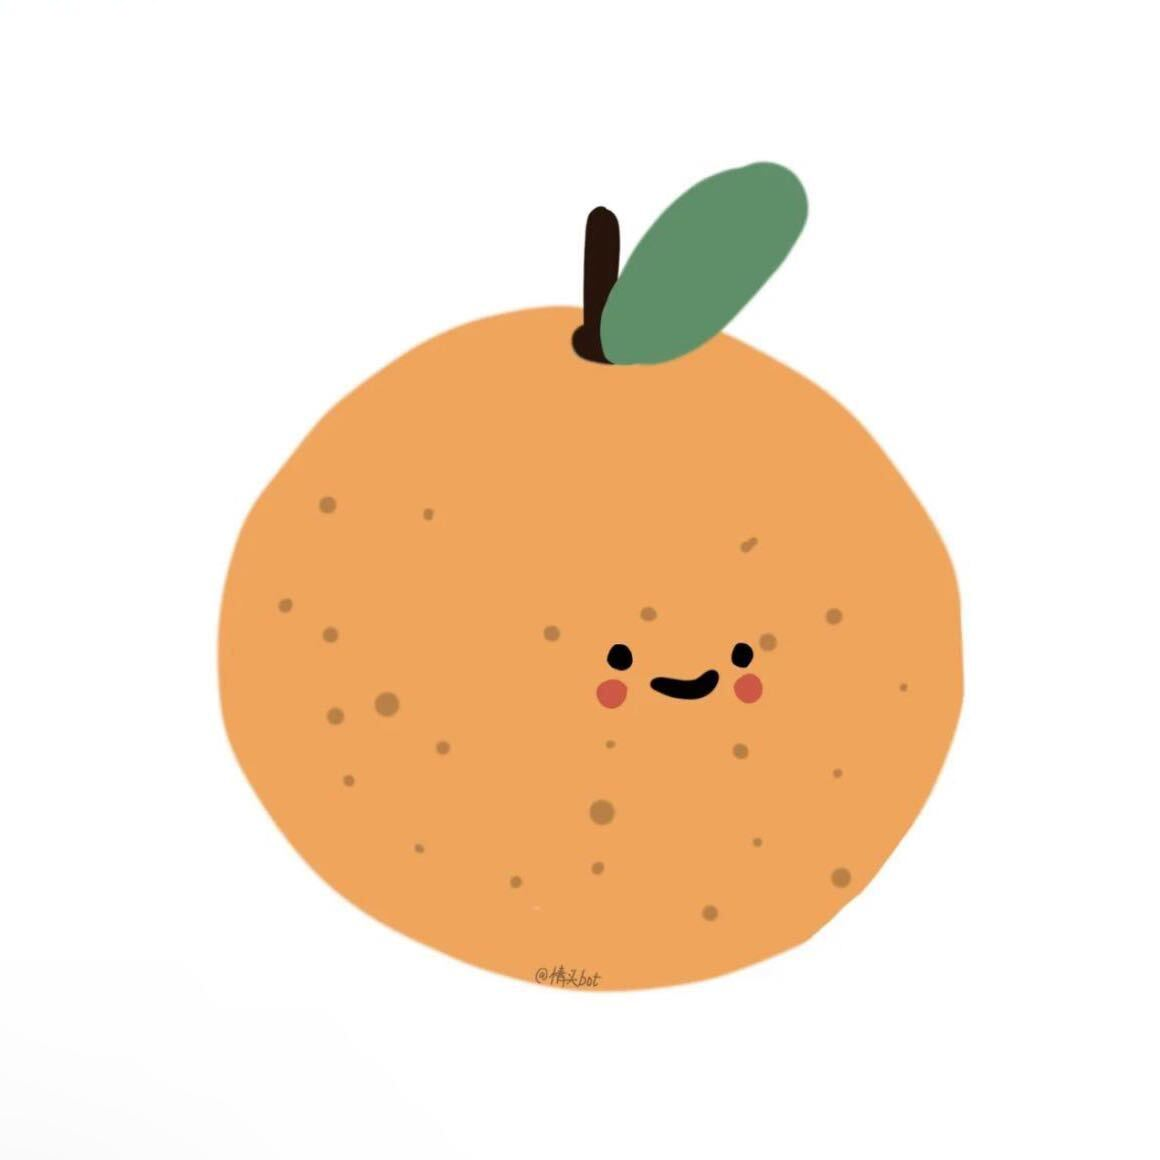
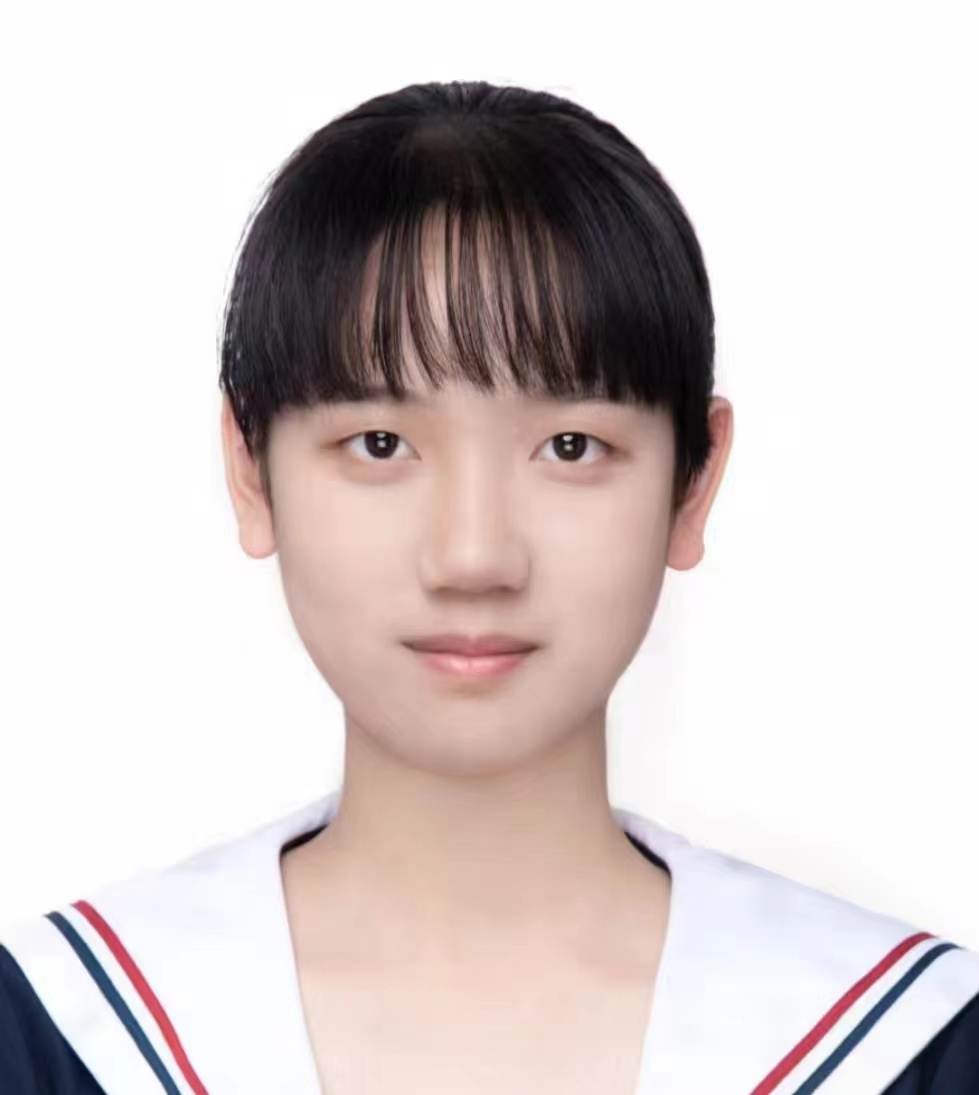
update member

diff --git a/new_new_index.html b/new_new_index.html
@@ -481,7 +481,7 @@
           <div class="hero-stat-label">Publications</div>
         </div>
         <div>
-          <div class="hero-stat-num">14</div>
+          <div class="hero-stat-num">17</div>
           <div class="hero-stat-label">Current Members</div>
         </div>
       </div>
@@ -541,6 +541,7 @@
 
     <!-- ══════════ News ══════════ -->
     <section id="news" class="section-card">
+
 
 
 
@@ -721,6 +722,7 @@
 
 
 
+
 <!-- wby: 注意，切勿删除，程序代码识别publications开始部分 -->
 
     <div class="section-header">
@@ -741,22 +743,25 @@
       <select id="authorFilterDropdown" class="filter-select">
           <option value="">All Authors</option>
           <option value="Boyuan Wang">Boyuan Wang</option>
+          <option value="Haiyan Feng">Haiyan Feng</option>
           <option value="Heming Zou">Heming Zou</option>
           <option value="Hongchang Zhang">Hongchang Zhang</option>
           <option value="Jianzhun Shao">Jianzhun Shao</option>
           <option value="Jinghao Chen">Jinghao Chen</option>
           <option value="Mengge Liu">Mengge Liu</option>
+          <option value="Mengyu Ge">Mengyu Ge</option>
           <option value="Qi (Cheems) Wang">Qi (Cheems) Wang</option>
           <option value="Shuncheng He">Shuncheng He</option>
           <option value="Wendong Huang">Wendong Huang</option>
           <option value="Wutong Xu">Wutong Xu</option>
           <option value="Xiang Li">Xiang Li</option>
           <option value="Xiangyang Ji">Xiangyang Ji</option>
+          <option value="Yingyue Li">Yingyue Li</option>
           <option value="Yixiu Mao">Yixiu Mao</option>
+          <option value="Yize Geng">Yize Geng</option>
           <option value="Yuhang Jiang">Yuhang Jiang</option>
           <option value="Yun Qu">Yun Qu</option>
           <option value="Yuyi Guo">Yuyi Guo</option>
-          <option value="Zhenchan Su">Zhenchan Su</option>
           <option value="Zihan Zhang">Zihan Zhang</option>
           <option value="Zixuan Zhang">Zixuan Zhang</option>
         </select>
@@ -1592,6 +1597,7 @@
 
 
 
+
 <!-- wby: 注意，切勿删除，程序代码识别blog开始部分 -->
 
     <div class="section-header">
@@ -1661,6 +1667,7 @@
 
     <!-- ══════════ Team Members ══════════ -->
     <section id="team" class="section-card">
+
 
 
 
@@ -1878,6 +1885,23 @@
         </div>
       </div>
 
+      <div class="col-md-6 col-lg-4 mb-3" style="display:none;padding:.5rem;" data-position="Master Student">
+        <div class="card h-100 member-card">
+          <div class="card-body">
+            <img src="resources/people_img/Yingyue Li.jpg" alt="Yingyue Li"
+                 class="member-avatar" onerror="this.onerror=null;this.src='resources/people_img/default.svg'">
+            <div class="member-name">Yingyue Li</div>
+            <span class="member-badge badge-master">Master Student</span>
+            
+            <div class="member-links">
+              <a href="https://github.com/liyingyue4586" target="_blank" title="GitHub"><i class="fab fa-github"></i></a>
+              <a href="https://scholar.google.com/citations?user=4BT3lrwAAAAJ" target="_blank" title="Google Scholar"><i class="fas fa-graduation-cap"></i></a>
+              <a href="mailto:yingyue-21@mails.tsinghua.edu.cn" title="Email"><i class="fas fa-envelope"></i></a>
+            </div>
+          </div>
+        </div>
+      </div>
+
       <div class="col-md-6 col-lg-4 mb-3" style="display:none;padding:.5rem;" data-position="Undergraduate Student">
         <div class="card h-100 member-card">
           <div class="card-body">
@@ -1887,7 +1911,8 @@
             <span class="member-badge badge-undergrad">Undergraduate Student</span>
             
             <div class="member-links">
-              
+              <a href="https://github.com/xwtMarch" target="_blank" title="GitHub"><i class="fab fa-github"></i></a>
+              <a href="mailto:xwt22@mails.tsinghua.edu.cn" title="Email"><i class="fas fa-envelope"></i></a>
             </div>
           </div>
         </div>
@@ -1902,7 +1927,7 @@
             <span class="member-badge badge-undergrad">Undergraduate Student</span>
             
             <div class="member-links">
-              
+              <a href="mailto:tomfortomas@gmail.com" title="Email"><i class="fas fa-envelope"></i></a>
             </div>
           </div>
         </div>
@@ -1926,13 +1951,45 @@
       <div class="col-md-6 col-lg-4 mb-3" style="display:none;padding:.5rem;" data-position="Undergraduate Student">
         <div class="card h-100 member-card">
           <div class="card-body">
-            <img src="resources/people_img/Zhenchan Su.jpg" alt="Zhenchan Su"
+            <img src="resources/people_img/Mengyu Ge.jpg" alt="Mengyu Ge"
                  class="member-avatar" onerror="this.onerror=null;this.src='resources/people_img/default.svg'">
-            <div class="member-name">Zhenchan Su</div>
+            <div class="member-name">Mengyu Ge</div>
             <span class="member-badge badge-undergrad">Undergraduate Student</span>
             
             <div class="member-links">
-              
+              <a href="mailto:gemy23@mails.tsinghua.edu.cn" title="Email"><i class="fas fa-envelope"></i></a>
+            </div>
+          </div>
+        </div>
+      </div>
+
+      <div class="col-md-6 col-lg-4 mb-3" style="display:none;padding:.5rem;" data-position="Undergraduate Student">
+        <div class="card h-100 member-card">
+          <div class="card-body">
+            <img src="resources/people_img/Haiyan Feng.jpg" alt="Haiyan Feng"
+                 class="member-avatar" onerror="this.onerror=null;this.src='resources/people_img/default.svg'">
+            <div class="member-name">Haiyan Feng</div>
+            <span class="member-badge badge-undergrad">Undergraduate Student</span>
+            
+            <div class="member-links">
+              <a href="https://github.com/Petrel05" target="_blank" title="GitHub"><i class="fab fa-github"></i></a>
+              <a href="mailto:fenghy23@mails.tsinghua.edu.cn" title="Email"><i class="fas fa-envelope"></i></a>
+            </div>
+          </div>
+        </div>
+      </div>
+
+      <div class="col-md-6 col-lg-4 mb-3" style="display:none;padding:.5rem;" data-position="Undergraduate Student">
+        <div class="card h-100 member-card">
+          <div class="card-body">
+            <img src="resources/people_img/Yize Geng.jpg" alt="Yize Geng"
+                 class="member-avatar" onerror="this.onerror=null;this.src='resources/people_img/default.svg'">
+            <div class="member-name">Yize Geng</div>
+            <span class="member-badge badge-undergrad">Undergraduate Student</span>
+            
+            <div class="member-links">
+              <a href="https://github.com/cheneen" target="_blank" title="GitHub"><i class="fab fa-github"></i></a>
+              <a href="mailto:gengyz23@mails.tsinghua.edu.cn" title="Email"><i class="fas fa-envelope"></i></a>
             </div>
           </div>
         </div>

diff --git a/new_new_backup.html b/new_new_backup.html
@@ -575,6 +575,7 @@
 
 
 
+
 <!-- wby: 注意，切勿删除，程序代码识别news开始部分 -->
 
     <div class="section-header">
@@ -721,6 +722,7 @@
 
 
 
+
 <!-- wby: 注意，切勿删除，程序代码识别publications开始部分 -->
 
     <div class="section-header">
@@ -741,22 +743,25 @@
       <select id="authorFilterDropdown" class="filter-select">
           <option value="">All Authors</option>
           <option value="Boyuan Wang">Boyuan Wang</option>
+          <option value="Haiyan Feng">Haiyan Feng</option>
           <option value="Heming Zou">Heming Zou</option>
           <option value="Hongchang Zhang">Hongchang Zhang</option>
           <option value="Jianzhun Shao">Jianzhun Shao</option>
           <option value="Jinghao Chen">Jinghao Chen</option>
           <option value="Mengge Liu">Mengge Liu</option>
+          <option value="Mengyu Ge">Mengyu Ge</option>
           <option value="Qi (Cheems) Wang">Qi (Cheems) Wang</option>
           <option value="Shuncheng He">Shuncheng He</option>
           <option value="Wendong Huang">Wendong Huang</option>
           <option value="Wutong Xu">Wutong Xu</option>
           <option value="Xiang Li">Xiang Li</option>
           <option value="Xiangyang Ji">Xiangyang Ji</option>
+          <option value="Yingyue Li">Yingyue Li</option>
           <option value="Yixiu Mao">Yixiu Mao</option>
+          <option value="Yize Geng">Yize Geng</option>
           <option value="Yuhang Jiang">Yuhang Jiang</option>
           <option value="Yun Qu">Yun Qu</option>
           <option value="Yuyi Guo">Yuyi Guo</option>
-          <option value="Zhenchan Su">Zhenchan Su</option>
           <option value="Zihan Zhang">Zihan Zhang</option>
           <option value="Zixuan Zhang">Zixuan Zhang</option>
         </select>
@@ -1591,6 +1596,7 @@
 
 
 
+
 <!-- wby: 注意，切勿删除，程序代码识别blog开始部分 -->
 
     <div class="section-header">
@@ -1660,6 +1666,7 @@
 
     <!-- ══════════ Team Members ══════════ -->
     <section id="team" class="section-card">
+
 
 
 
@@ -1877,6 +1884,23 @@
         </div>
       </div>
 
+      <div class="col-md-6 col-lg-4 mb-3" style="display:none;padding:.5rem;" data-position="Master Student">
+        <div class="card h-100 member-card">
+          <div class="card-body">
+            <img src="resources/people_img/Yingyue Li.jpg" alt="Yingyue Li"
+                 class="member-avatar" onerror="this.onerror=null;this.src='resources/people_img/default.svg'">
+            <div class="member-name">Yingyue Li</div>
+            <span class="member-badge badge-master">Master Student</span>
+            
+            <div class="member-links">
+              <a href="https://github.com/liyingyue4586" target="_blank" title="GitHub"><i class="fab fa-github"></i></a>
+              <a href="https://scholar.google.com/citations?user=4BT3lrwAAAAJ" target="_blank" title="Google Scholar"><i class="fas fa-graduation-cap"></i></a>
+              <a href="mailto:yingyue-21@mails.tsinghua.edu.cn" title="Email"><i class="fas fa-envelope"></i></a>
+            </div>
+          </div>
+        </div>
+      </div>
+
       <div class="col-md-6 col-lg-4 mb-3" style="display:none;padding:.5rem;" data-position="Undergraduate Student">
         <div class="card h-100 member-card">
           <div class="card-body">
@@ -1886,7 +1910,8 @@
             <span class="member-badge badge-undergrad">Undergraduate Student</span>
             
             <div class="member-links">
-              
+              <a href="https://github.com/xwtMarch" target="_blank" title="GitHub"><i class="fab fa-github"></i></a>
+              <a href="mailto:xwt22@mails.tsinghua.edu.cn" title="Email"><i class="fas fa-envelope"></i></a>
             </div>
           </div>
         </div>
@@ -1901,7 +1926,7 @@
             <span class="member-badge badge-undergrad">Undergraduate Student</span>
             
             <div class="member-links">
-              
+              <a href="mailto:tomfortomas@gmail.com" title="Email"><i class="fas fa-envelope"></i></a>
             </div>
           </div>
         </div>
@@ -1925,13 +1950,45 @@
       <div class="col-md-6 col-lg-4 mb-3" style="display:none;padding:.5rem;" data-position="Undergraduate Student">
         <div class="card h-100 member-card">
           <div class="card-body">
-            <img src="resources/people_img/Zhenchan Su.jpg" alt="Zhenchan Su"
+            <img src="resources/people_img/Mengyu Ge.jpg" alt="Mengyu Ge"
                  class="member-avatar" onerror="this.onerror=null;this.src='resources/people_img/default.svg'">
-            <div class="member-name">Zhenchan Su</div>
+            <div class="member-name">Mengyu Ge</div>
             <span class="member-badge badge-undergrad">Undergraduate Student</span>
             
             <div class="member-links">
-              
+              <a href="mailto:gemy23@mails.tsinghua.edu.cn" title="Email"><i class="fas fa-envelope"></i></a>
+            </div>
+          </div>
+        </div>
+      </div>
+
+      <div class="col-md-6 col-lg-4 mb-3" style="display:none;padding:.5rem;" data-position="Undergraduate Student">
+        <div class="card h-100 member-card">
+          <div class="card-body">
+            <img src="resources/people_img/Haiyan Feng.jpg" alt="Haiyan Feng"
+                 class="member-avatar" onerror="this.onerror=null;this.src='resources/people_img/default.svg'">
+            <div class="member-name">Haiyan Feng</div>
+            <span class="member-badge badge-undergrad">Undergraduate Student</span>
+            
+            <div class="member-links">
+              <a href="https://github.com/Petrel05" target="_blank" title="GitHub"><i class="fab fa-github"></i></a>
+              <a href="mailto:fenghy23@mails.tsinghua.edu.cn" title="Email"><i class="fas fa-envelope"></i></a>
+            </div>
+          </div>
+        </div>
+      </div>
+
+      <div class="col-md-6 col-lg-4 mb-3" style="display:none;padding:.5rem;" data-position="Undergraduate Student">
+        <div class="card h-100 member-card">
+          <div class="card-body">
+            <img src="resources/people_img/Yize Geng.jpg" alt="Yize Geng"
+                 class="member-avatar" onerror="this.onerror=null;this.src='resources/people_img/default.svg'">
+            <div class="member-name">Yize Geng</div>
+            <span class="member-badge badge-undergrad">Undergraduate Student</span>
+            
+            <div class="member-links">
+              <a href="https://github.com/cheneen" target="_blank" title="GitHub"><i class="fab fa-github"></i></a>
+              <a href="mailto:gengyz23@mails.tsinghua.edu.cn" title="Email"><i class="fas fa-envelope"></i></a>
             </div>
           </div>
         </div>
